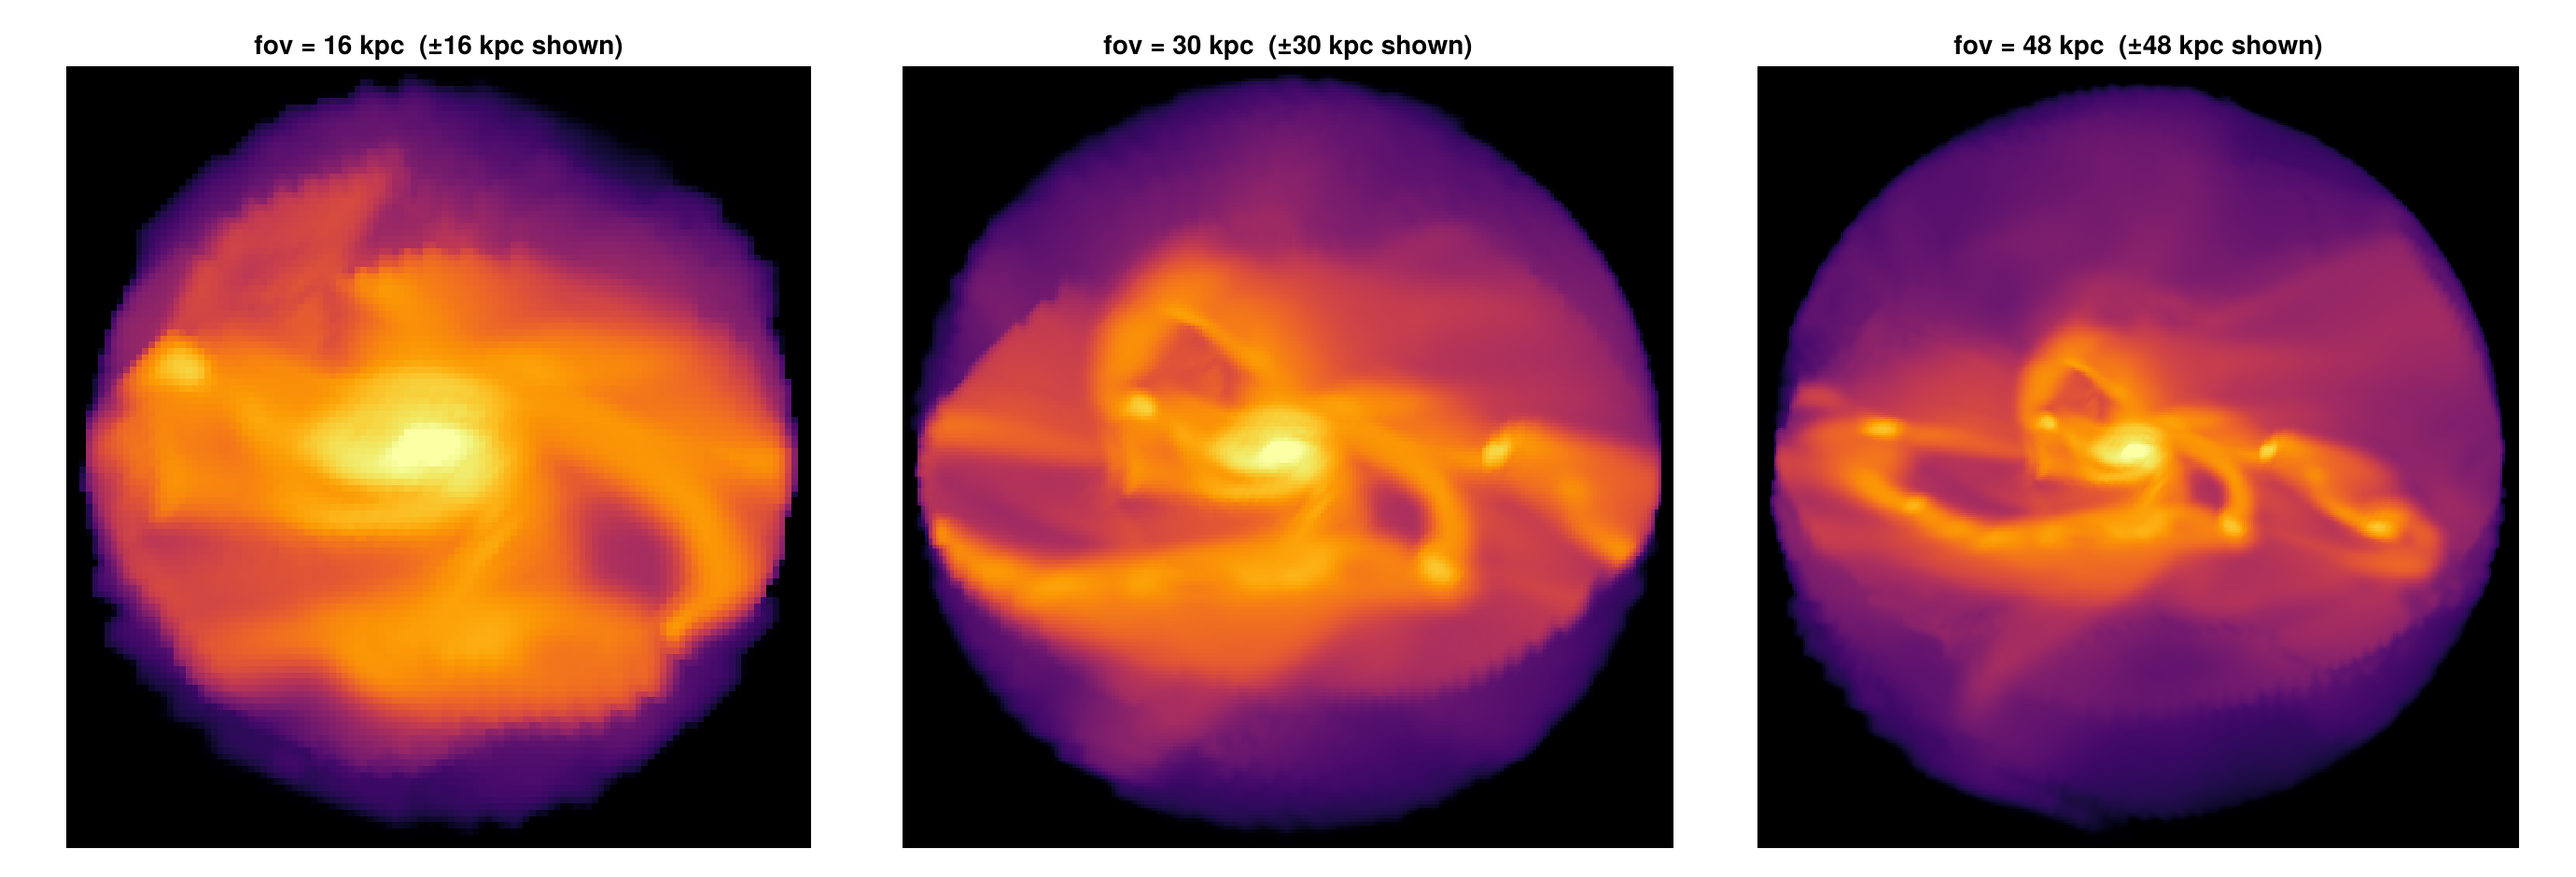
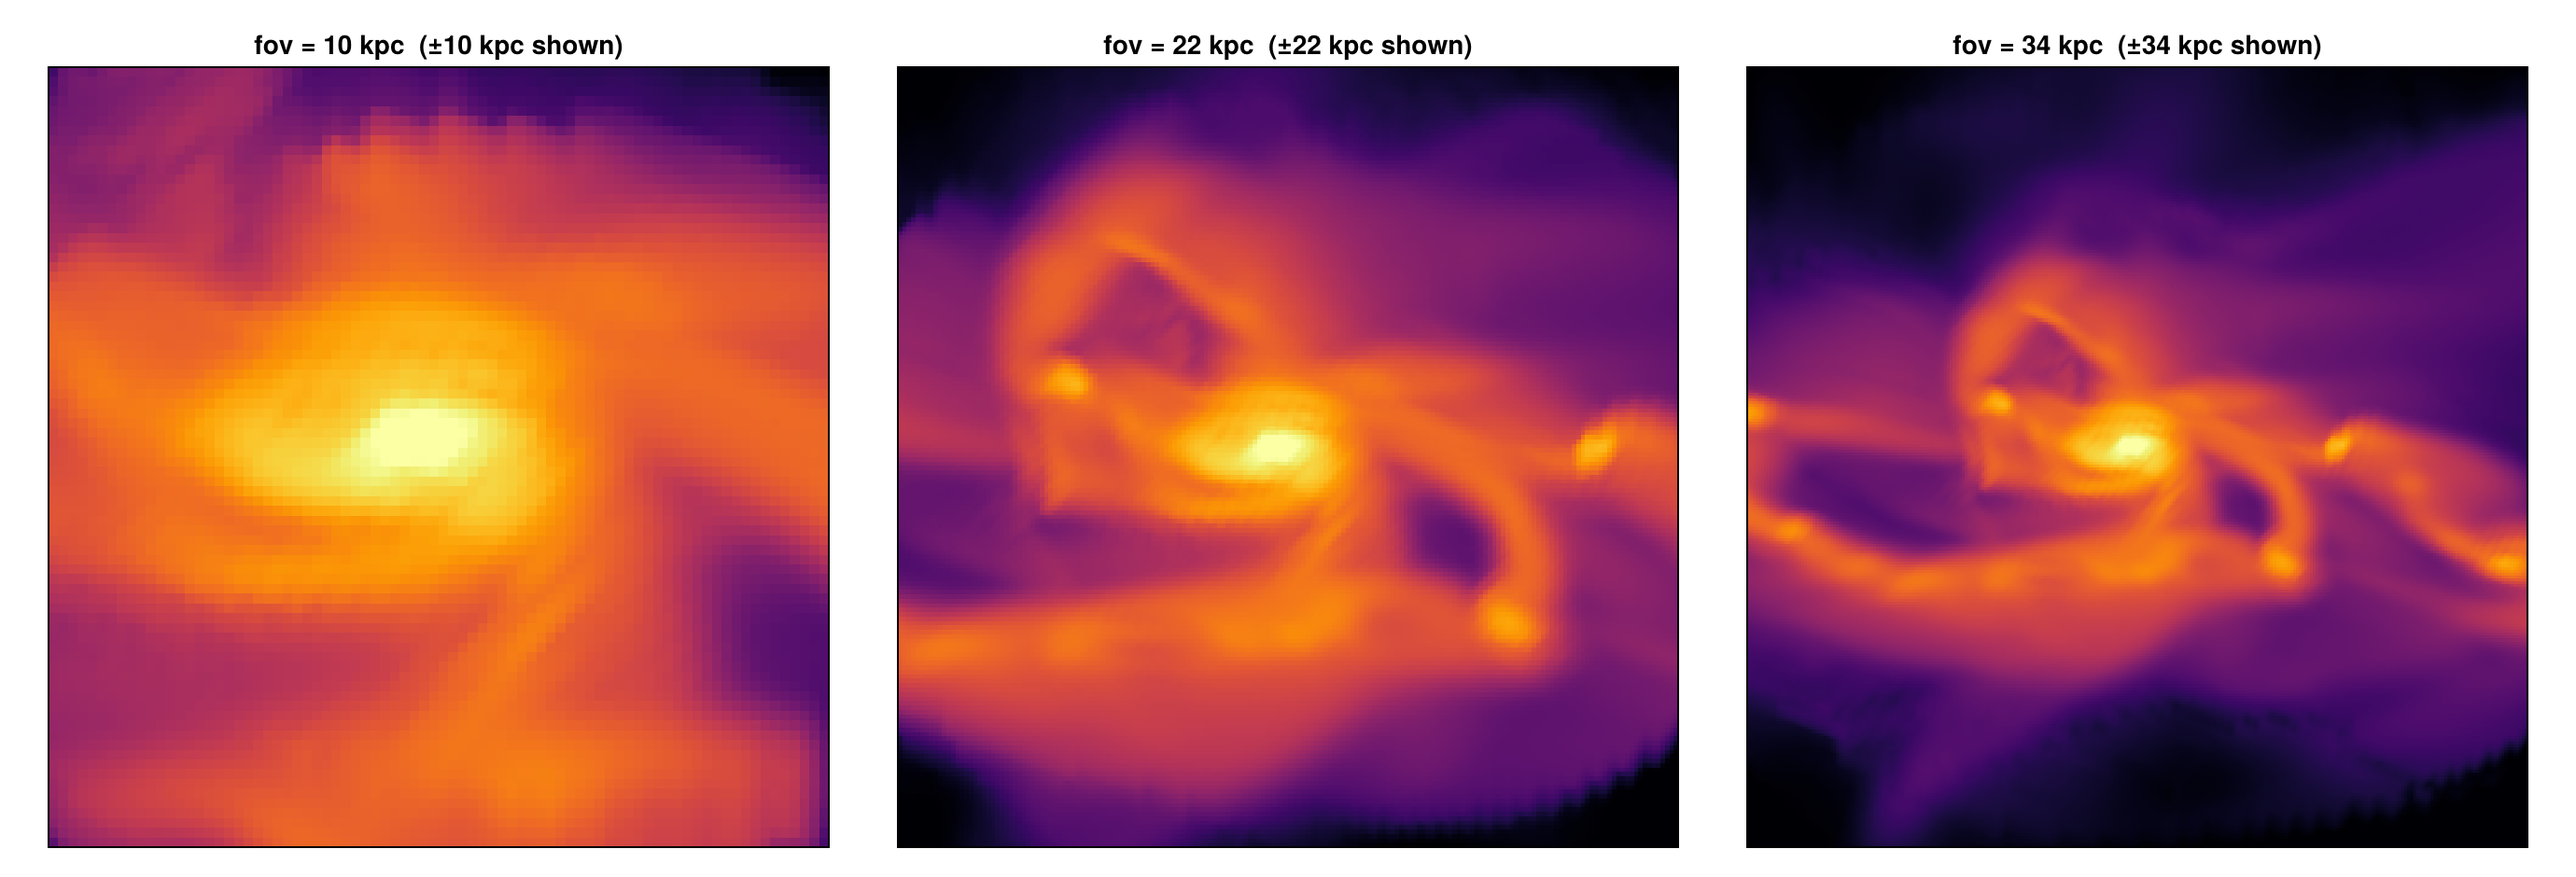
docs(offaxis): use the square (full-frame) aperture in the FOV illustration (#254)
Re-render the fov comparison (fov = 10/22/34 kpc) with aperture=:square so the galaxy shrinks across
a full rectangular frame rather than a circular aperture; note the box bounds the :square FOV (use
:circle to zoom out further).

diff --git a/docs/src/06_offaxis_Projection.md b/docs/src/06_offaxis_Projection.md
@@ -591,13 +591,16 @@ does nothing; the only control over what is in frame is the **`fov`** (omit it t
 image, a **larger `fov` shows the same galaxy smaller**:
 
 ```julia
-for fv in (16, 30, 48)
+for fv in (10, 22, 34)
     rotation_sequence(gas, :sd, :Msol_pc2; sweep=:azimuth, angles=[30], inclination=55,
-                      axis=:angmom, fov=fv, fov_unit=:kpc, pxsize=[0.3,:kpc])
+                      axis=:angmom, fov=fv, fov_unit=:kpc, pxsize=[0.25,:kpc], aperture=:square)
 end
 ```
 
-![The same view at fov = 16, 30, 48 kpc: each frame fills the image, so a larger field of view shows the galaxy progressively smaller.](assets/offaxis/orbit_fov.png)
+![The same view at fov = 10, 22, 34 kpc (full square frames): each frame fills the image, so a larger field of view shows the galaxy progressively smaller.](assets/offaxis/orbit_fov.png)
+
+(With `aperture=:square` the FOV is bounded by the box — the √2·`fov` selection sphere must fit — so
+to zoom out further than this use `aperture=:circle`, which allows a larger `fov`.)
 
 The FOV must be **rotation-invariant** or the frame would breathe with angle, so a sphere of
 radius `fov` is used; `aperture` picks how it is framed:
